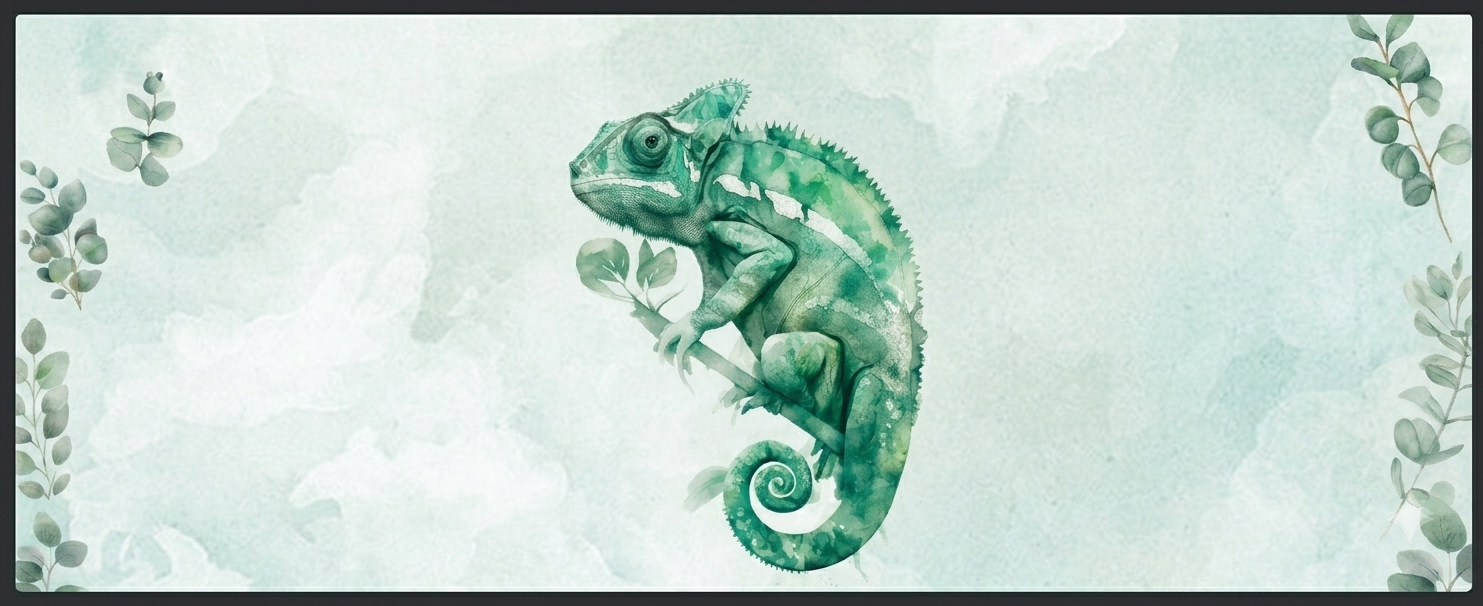
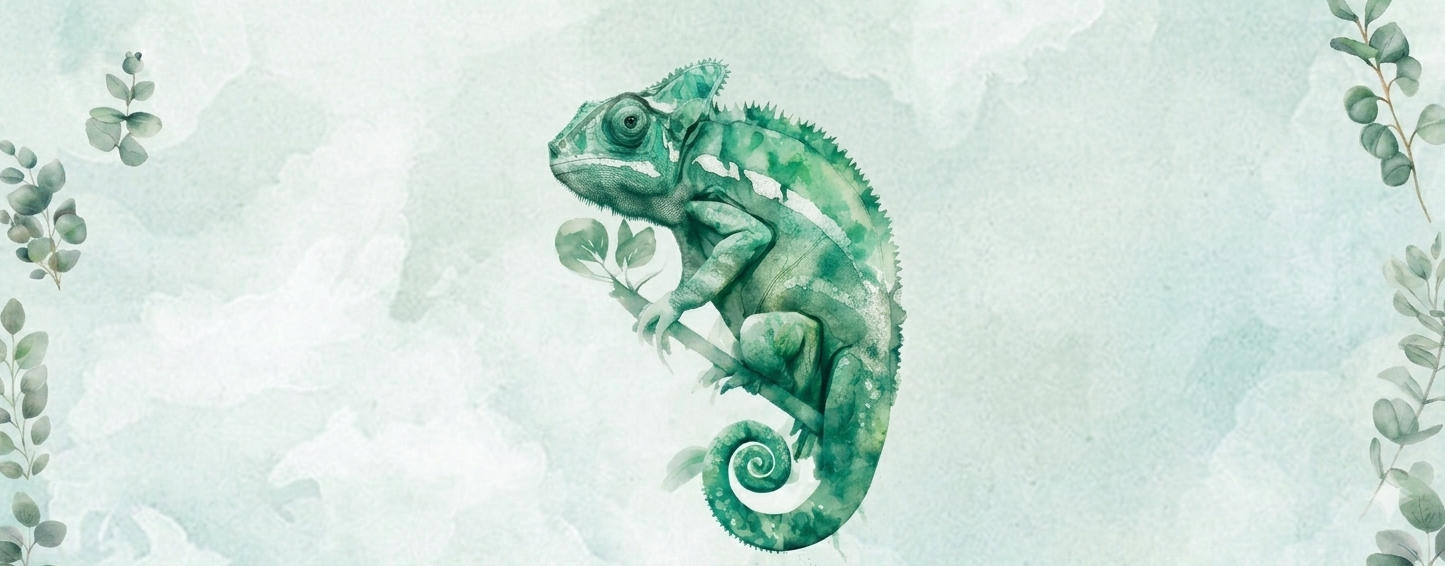
fix: remove dark border from chameleon images, match bg color to watercolor paper

Changed region(s): [[0.0, 0.0, 1.0, 1.0], [0.1869, 0.811, 0.2491, 0.841], [0.2491, 0.5406, 0.2803, 0.5707]]

diff --git a/gamma_scanner/static/dashboard_v2.html b/gamma_scanner/static/dashboard_v2.html
@@ -46,7 +46,7 @@ body {
   position: absolute;
   inset: 0;
   background: url('/static/chameleon_bg.png') top center/100% auto no-repeat;
-  background-color: #f2f7f5;
+  background-color: #ecf0ef;
 }
 @media (max-width: 700px) {
   .bg-chameleon {
